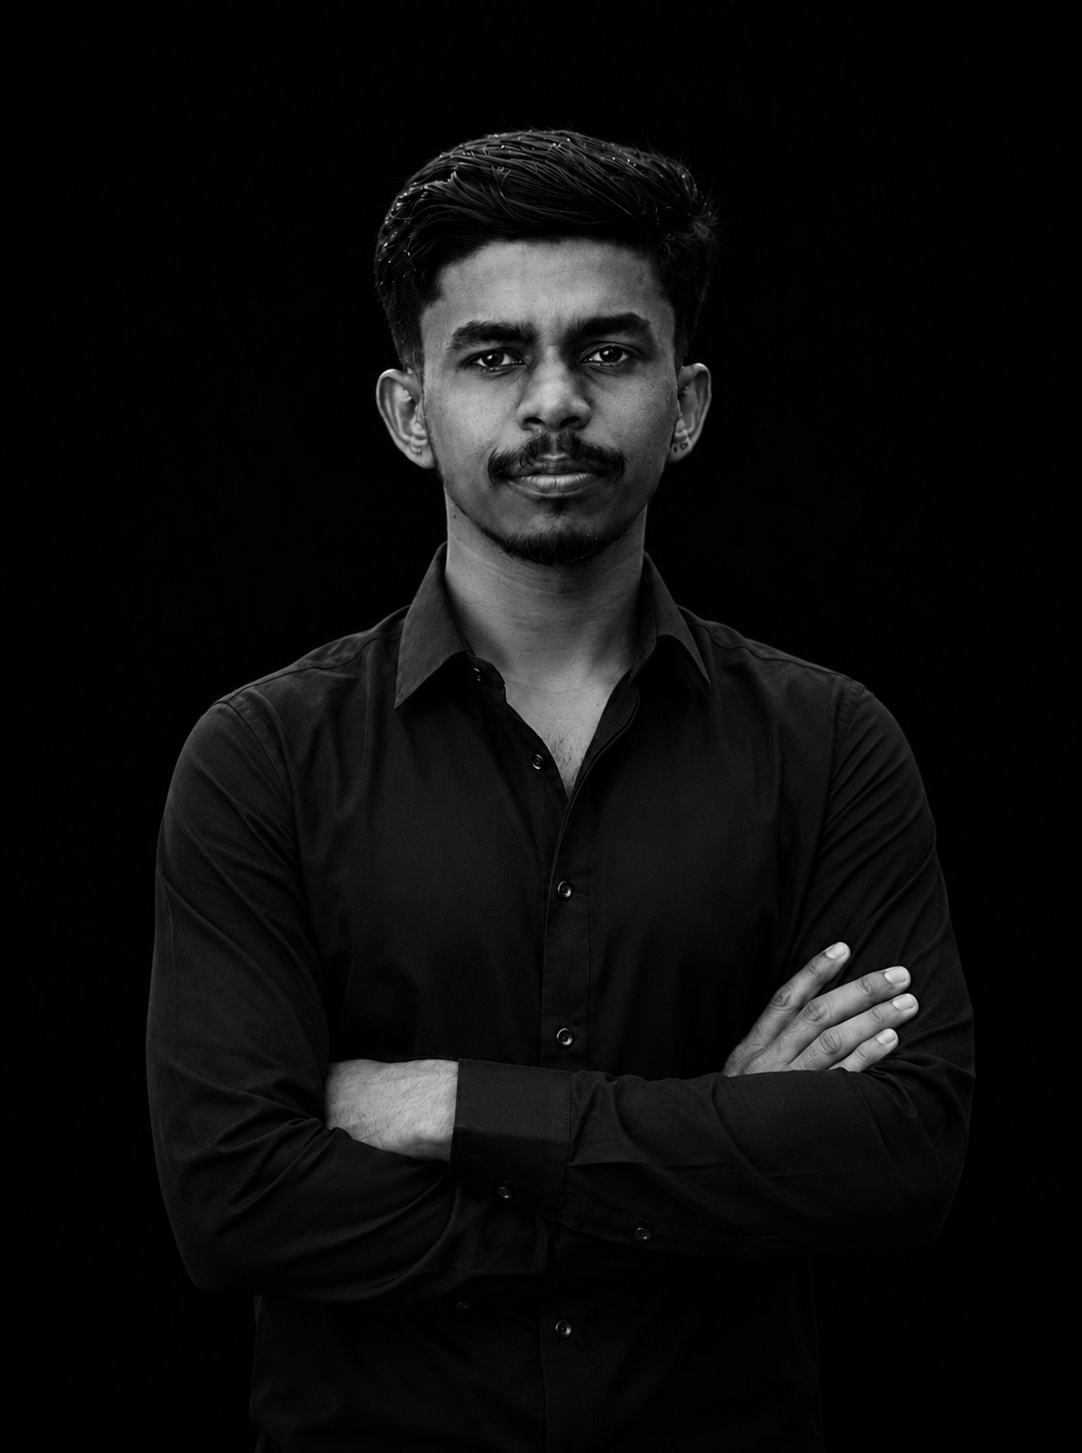
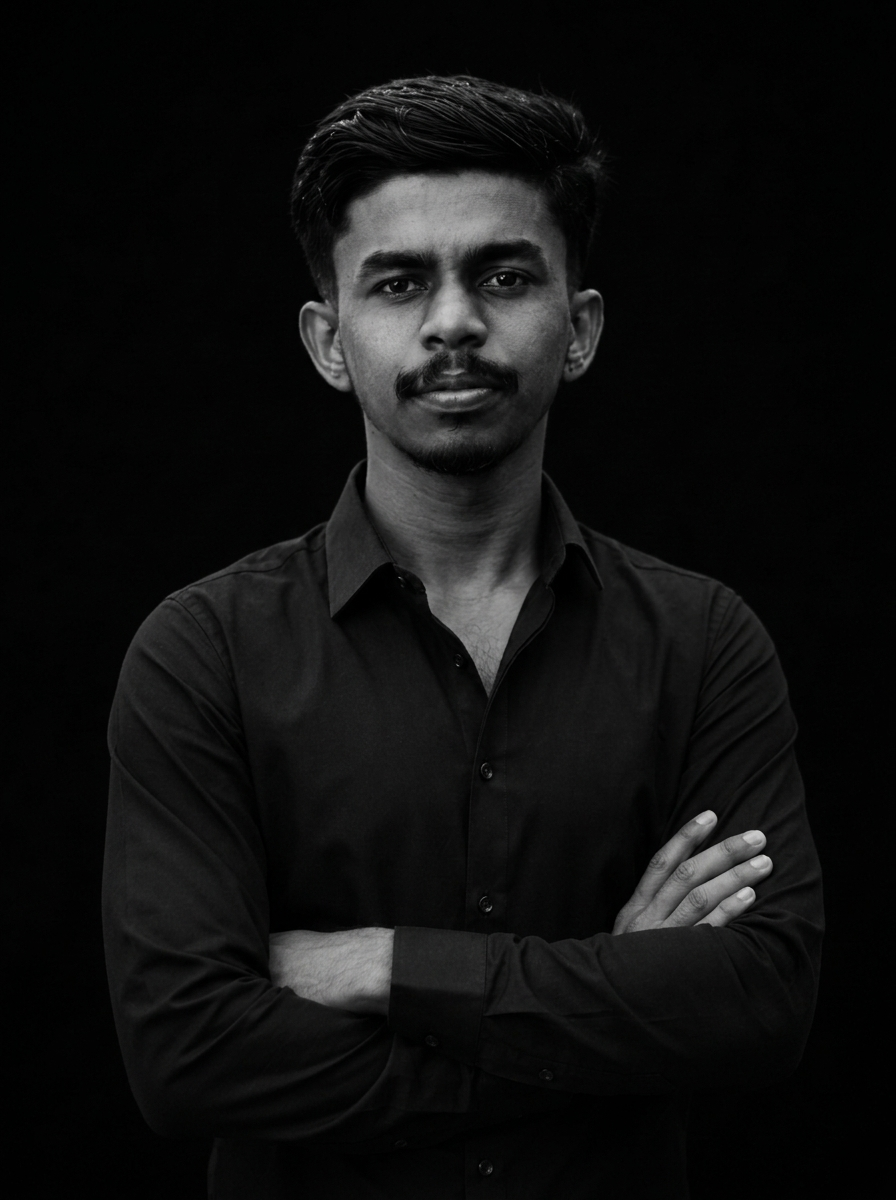
hero section portrait and remove status badge

diff --git a/components/sections/Hero.tsx b/components/sections/Hero.tsx
@@ -302,23 +302,13 @@ export function Hero() {
           <div className="hero-image relative mx-auto hidden w-full max-w-sm lg:block lg:max-w-none">
             <div className="overflow-hidden">
               <Image
-                src="/puvan1.png"
+                src="/puvan_hero.png"
                 alt="Portrait of Puvanakopis"
                 width={800}
                 height={1000}
                 className="hero-image-inner aspect-[4/5] w-full object-cover"
                 priority
               />
-            </div>
-
-            <div className="hero-fade absolute bottom-5 right-5 rounded-2xl border border-[var(--border)] bg-[var(--background)]/80 px-6 py-4 backdrop-blur-xl shadow-lg">
-              <div className="text-display text-2xl text-[var(--primary)]">
-                Open
-              </div>
-
-              <p className="text-xs uppercase tracking-wider text-[var(--muted-foreground)]">
-                for projects & internships
-              </p>
             </div>
           </div>
         </div>
